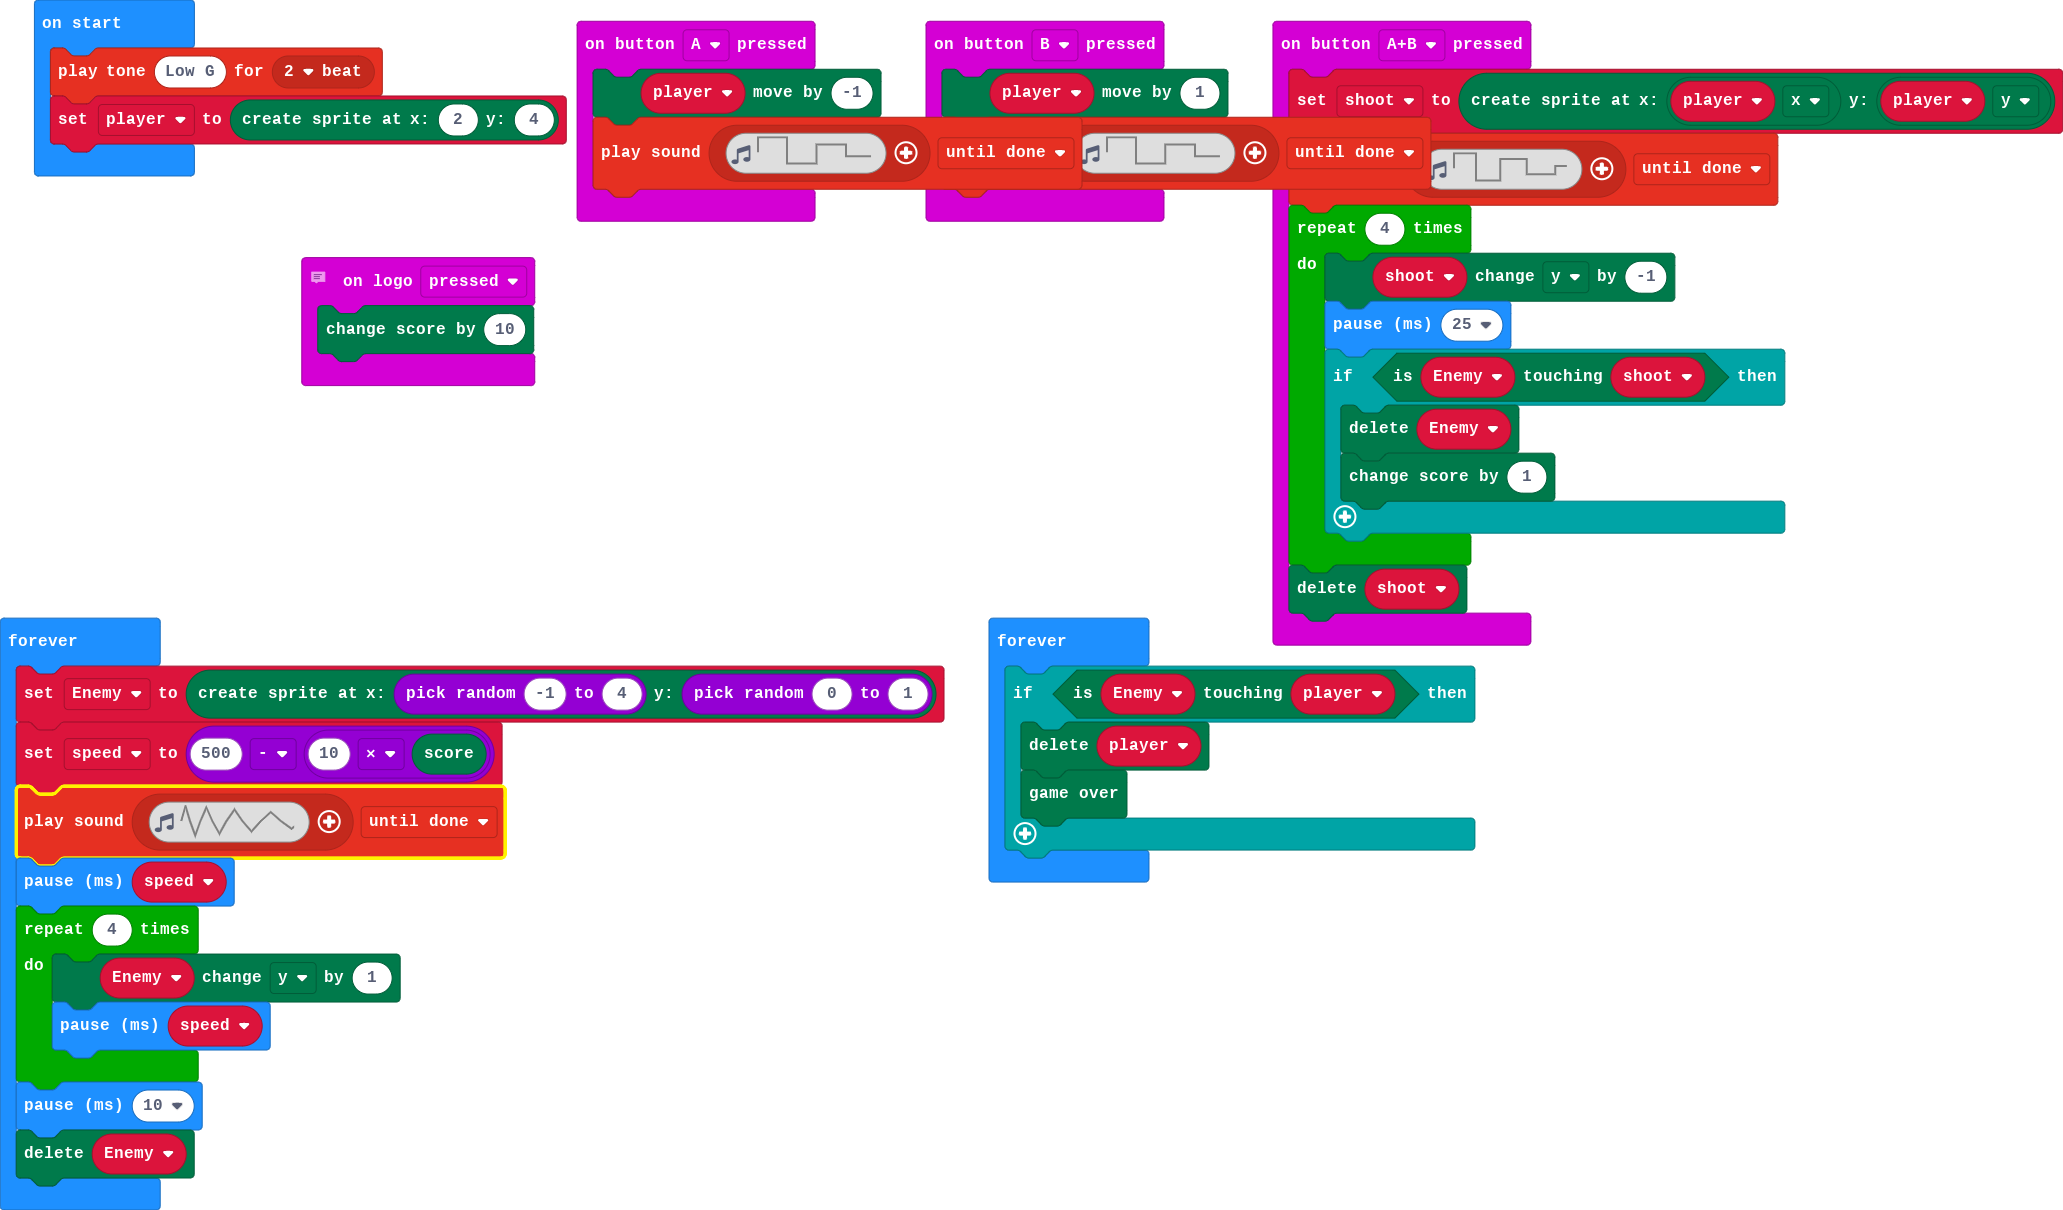
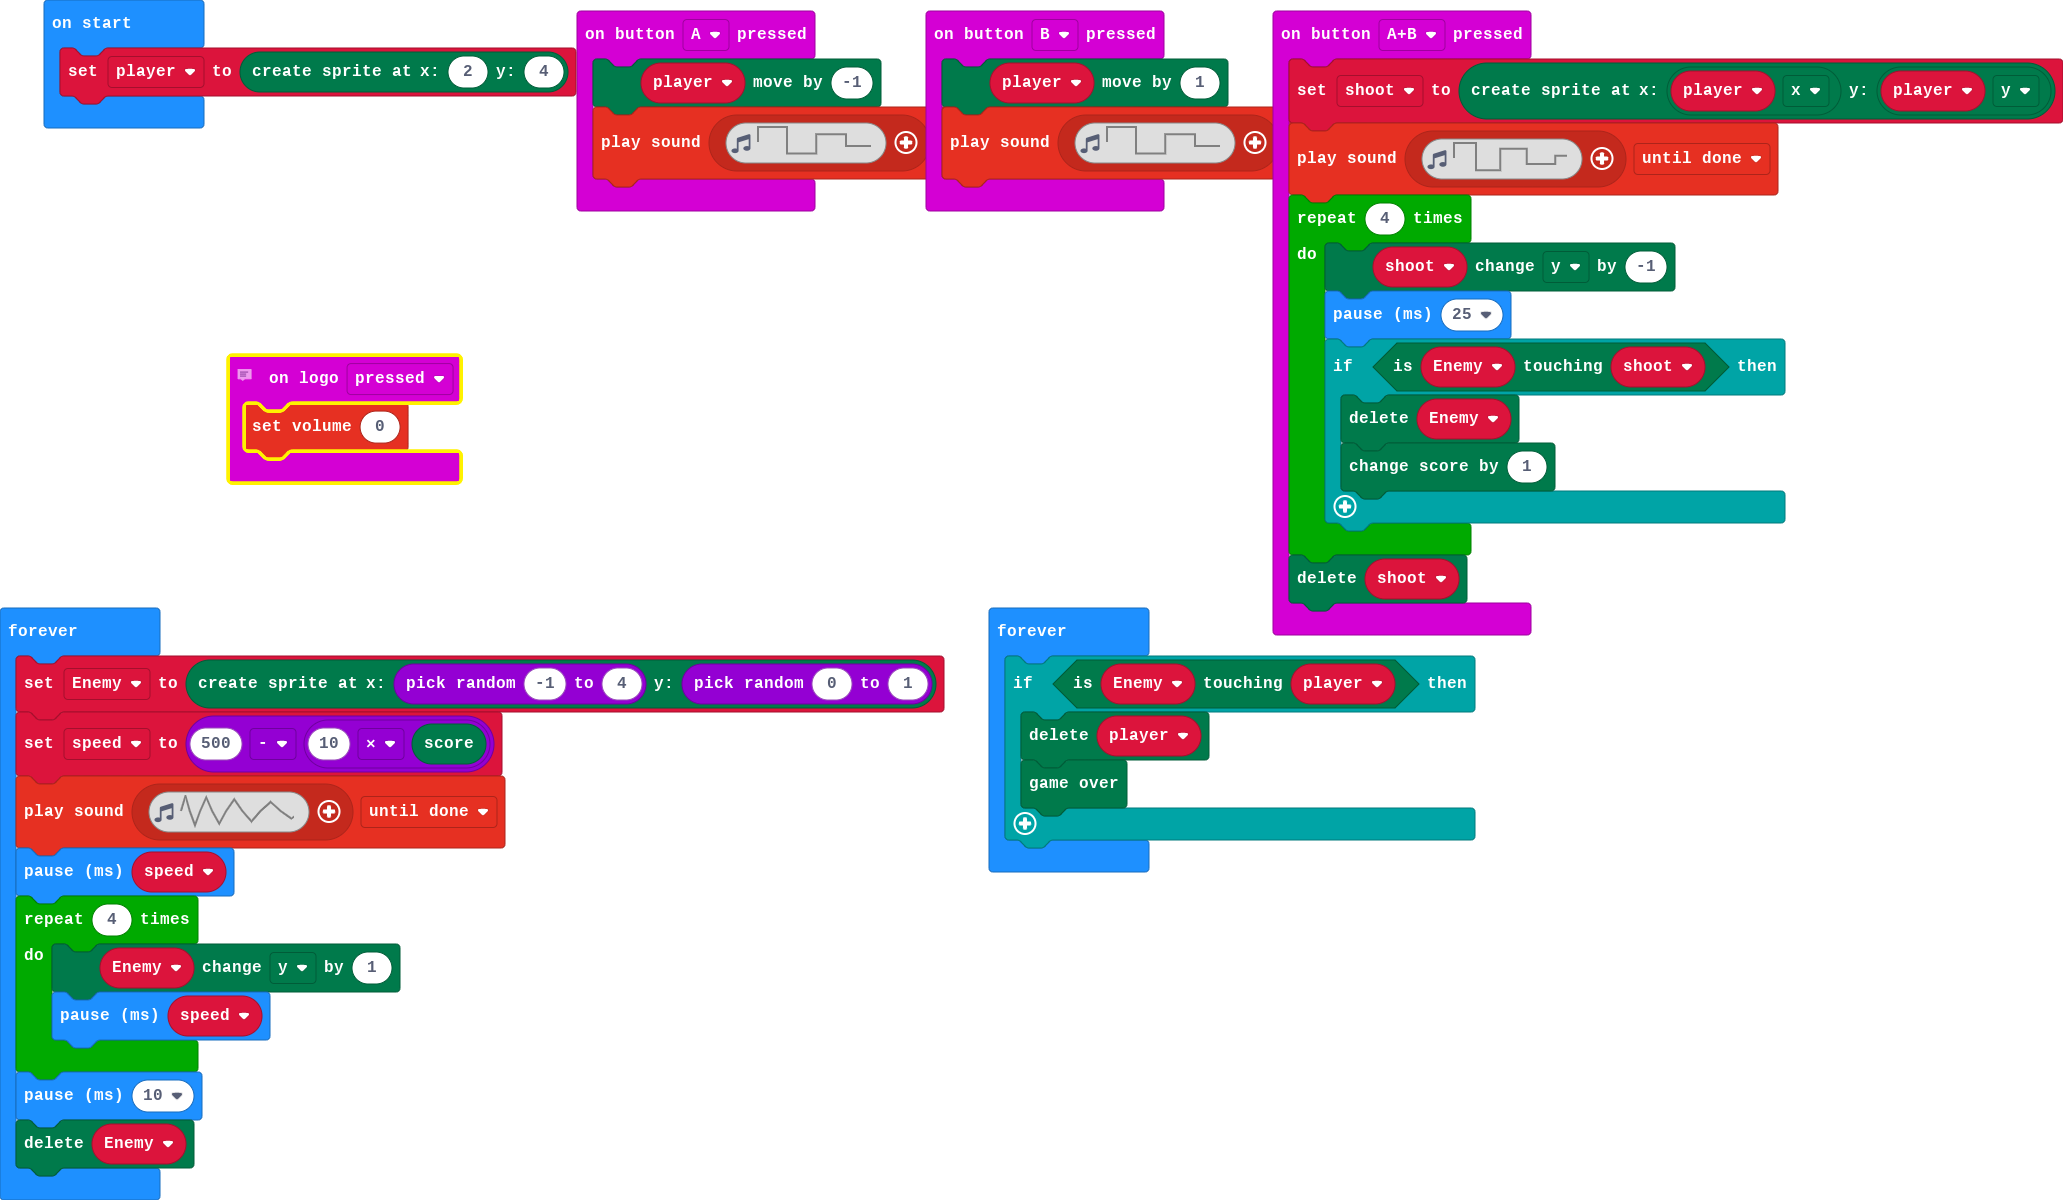
small sound update

Changed region(s): [[0.0, 0.0, 1.0, 0.9867], [0.0931, 0.185, 0.2792, 0.4317]]

diff --git a/main.ts b/main.ts
@@ -19,15 +19,15 @@ input.onButtonPressed(Button.B, function () {
     player.move(1)
     music.playSoundEffect(music.createSoundEffect(WaveShape.Square, 200, 1, 255, 0, 100, SoundExpressionEffect.None, InterpolationCurve.Curve), SoundExpressionPlayMode.UntilDone)
 })
-// debug stuff
+// turn of sound
+// 
 input.onLogoEvent(TouchButtonEvent.Pressed, function () {
-    game.addScore(10)
+    music.setVolume(0)
 })
 let speed = 0
 let Enemy: game.LedSprite = null
 let shoot: game.LedSprite = null
 let player: game.LedSprite = null
-music.playTone(196, music.beat(BeatFraction.Double))
 player = game.createSprite(2, 4)
 basic.forever(function () {
     Enemy = game.createSprite(randint(-1, 4), randint(0, 1))

diff --git a/main.py b/main.py
@@ -1,11 +1,29 @@
 def on_button_pressed_a():
     player.move(-1)
+    music.play_sound_effect(music.create_sound_effect(WaveShape.SQUARE,
+            200,
+            1,
+            255,
+            0,
+            100,
+            SoundExpressionEffect.NONE,
+            InterpolationCurve.CURVE),
+        SoundExpressionPlayMode.UNTIL_DONE)
 input.on_button_pressed(Button.A, on_button_pressed_a)
 
 def on_button_pressed_ab():
     global shoot
     shoot = game.create_sprite(player.get(LedSpriteProperty.X),
         player.get(LedSpriteProperty.Y))
+    music.play_sound_effect(music.create_sound_effect(WaveShape.SQUARE,
+            1600,
+            1,
+            255,
+            0,
+            300,
+            SoundExpressionEffect.NONE,
+            InterpolationCurve.CURVE),
+        SoundExpressionPlayMode.UNTIL_DONE)
     for index in range(4):
         shoot.change(LedSpriteProperty.Y, -1)
         basic.pause(25)
@@ -17,20 +35,47 @@ input.on_button_pressed(Button.AB, on_button_pressed_ab)
 
 def on_button_pressed_b():
     player.move(1)
+    music.play_sound_effect(music.create_sound_effect(WaveShape.SQUARE,
+            200,
+            1,
+            255,
+            0,
+            100,
+            SoundExpressionEffect.NONE,
+            InterpolationCurve.CURVE),
+        SoundExpressionPlayMode.UNTIL_DONE)
 input.on_button_pressed(Button.B, on_button_pressed_b)
 
+# debug stuff
+
+def on_logo_pressed():
+    game.add_score(10)
+input.on_logo_event(TouchButtonEvent.PRESSED, on_logo_pressed)
+
+speed = 0
 Enemy: game.LedSprite = None
 shoot: game.LedSprite = None
 player: game.LedSprite = None
+music.play_tone(196, music.beat(BeatFraction.DOUBLE))
 player = game.create_sprite(2, 4)
 
 def on_forever():
-    global Enemy
+    global Enemy, speed
     Enemy = game.create_sprite(randint(-1, 4), randint(0, 1))
-    basic.pause(500)
+    speed = 500 - 10 * game.score()
+    music.play_sound_effect(music.create_sound_effect(WaveShape.TRIANGLE,
+            4237,
+            1621,
+            255,
+            103,
+            500,
+            SoundExpressionEffect.WARBLE,
+            InterpolationCurve.CURVE),
+        SoundExpressionPlayMode.UNTIL_DONE)
+    basic.pause(speed)
     for index2 in range(4):
         Enemy.change(LedSpriteProperty.Y, 1)
-        basic.pause(500)
+        basic.pause(speed)
     basic.pause(10)
     Enemy.delete()
 basic.forever(on_forever)
